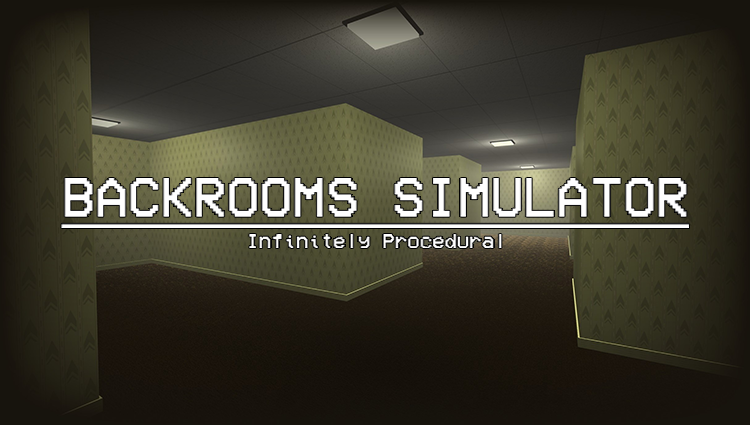
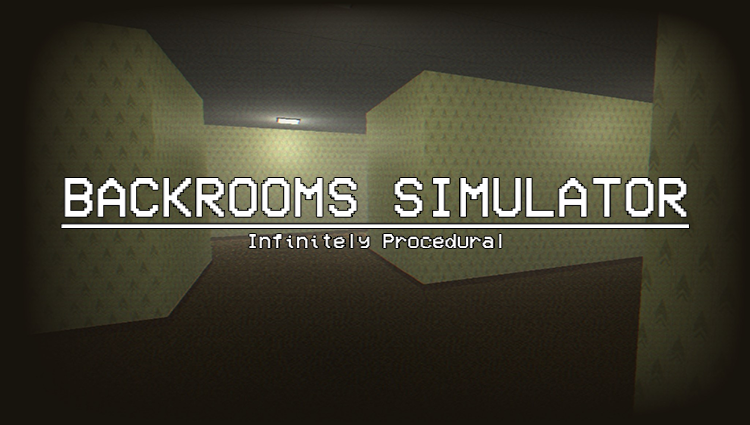
Update portfolio images

Changed region(s): [[0.092, 0.0306, 0.8893, 0.8871]]

diff --git a/backrooms-details.html b/backrooms-details.html
@@ -88,7 +88,8 @@
               <h2>About</h2>
               <p>
                 This project is inspired by the creepypasta "The Backrooms", which describes a world that is a seemingly endless maze of yellow rooms. To recreate this, I used Three.js to create a procedurally generated maze of eerily empty rooms using primarily <a href="https://en.wikipedia.org/wiki/Maze_generation_algorithm#Iterative_randomized_Prim's_algorithm_(without_stack,_without_sets)" target="_blank">Prim's algorithm</a>.
-                The maze infinitely generates as the player moves through it, while the player moves using WASD controls. Infinite procedural generation is achieved by using a system of offset corrdinates and 2D array of mazes, which themselves are 2D arrays of rooms. This can be performance intensive, so the program includes several settingsd to adjust the maze generation and rendering to improve performance.
+                The player uses WASD to move and the maze will continue to generate as the player moves through the world. Infinite procedural generation is achieved by using a system of offset corrdinates and 2D array of mazes, which themselves are 2D arrays of rooms. This can be performance intensive, so the program includes generative optimizations and several configurable settings to adjust the maze generation and rendering to improve performance.
+                To create a retro effect and feel of being lost in a maze, I also implemented several GLSL shaders that add a CRT effect, vignette, and RGB color shifting. These shaders were primarily created by <a href="https://github.com/felixturner/" target="_blank">@felixturner</a> on GitHub.
               </p>
             </div>
           </div>
